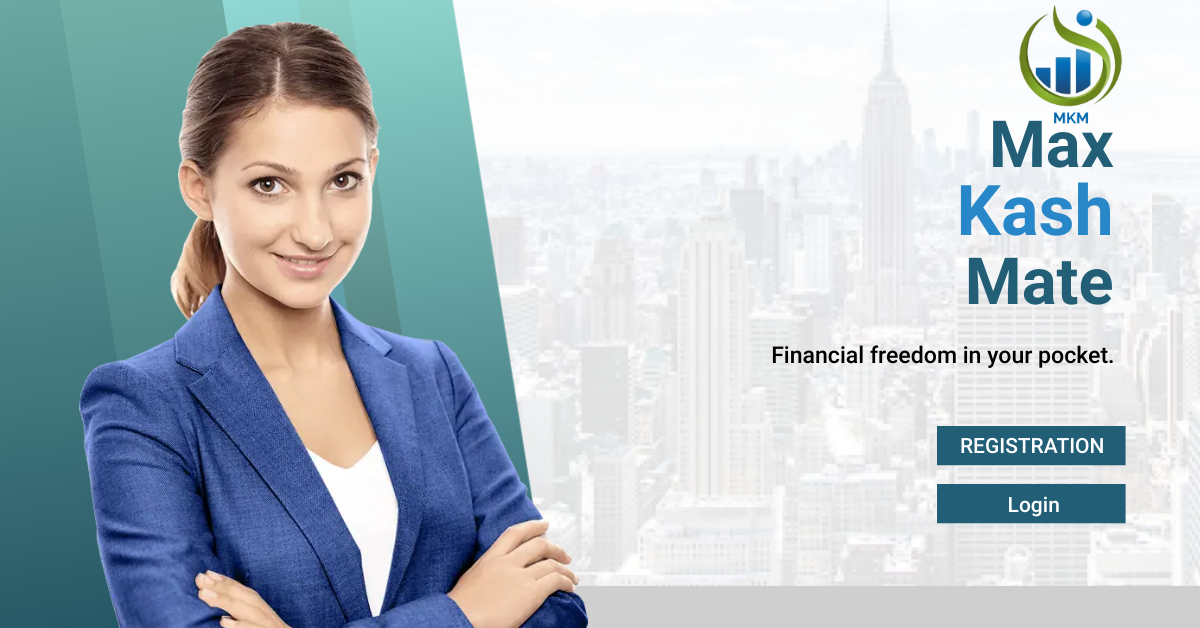
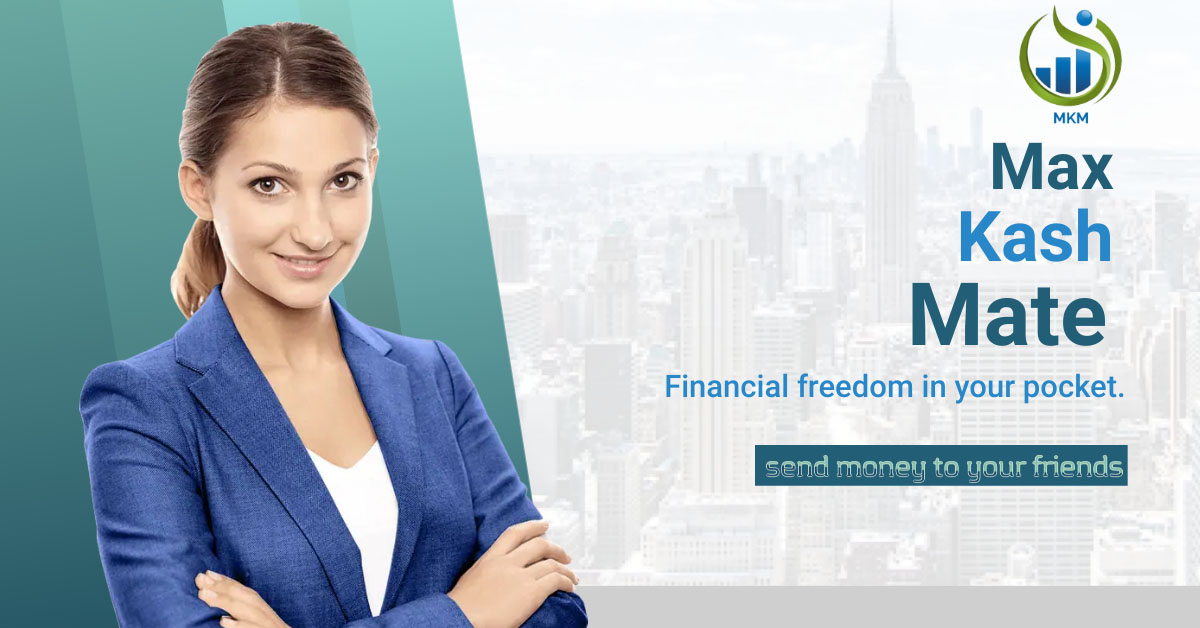
welcome page added

Changed region(s): [[0.555, 0.1815, 0.9558, 0.6354], [0.6167, 0.6656, 0.9558, 0.8471]]

diff --git a/Virtual Wallet/Virtual Wallet/Program.cs b/Virtual Wallet/Virtual Wallet/Program.cs
@@ -38,8 +38,8 @@ namespace Virtual_Wallet
             {
 
 
-                string connectionString = @"Server=FREAKY\MSSQLSERVER2022;Database=VirtualWalletDataBase;Trusted_Connection=True;Encrypt=False;";
-				//string connectionString = @"Server=MILA-V15G2\SQLEXPRESS;Database=VirtualWalletDataBase;Trusted_Connection=True;Encrypt=False;";
+                //string connectionString = @"Server=FREAKY\MSSQLSERVER2022;Database=VirtualWalletDataBase;Trusted_Connection=True;Encrypt=False;";
+				string connectionString = @"Server=MILA-V15G2\SQLEXPRESS;Database=VirtualWalletDataBase;Trusted_Connection=True;Encrypt=False;";
                 //string connectionString = @"Server=VILIMOV-PC;Database=VirtualWalletDataBase;Trusted_Connection=True;Encrypt=False;";
                 //string connectionString = @"Server=localhost;Database=VirtualWalletDataBase;Trusted_Connection=True;Encrypt=False;";
 

diff --git a/Virtual Wallet/Virtual Wallet/Controllers/MVC/HomeController.cs b/Virtual Wallet/Virtual Wallet/Controllers/MVC/HomeController.cs
@@ -15,7 +15,11 @@ namespace Virtual_Wallet.Controllers.MVC
 
         public IActionResult Index()
         {
-            return View();
+			if (this.HttpContext.Session.GetString("LoggedUser") == null)
+			{
+				return RedirectToAction("Welcomepage", "Home");
+			}
+			return View();
         }
 
         public IActionResult Privacy()
